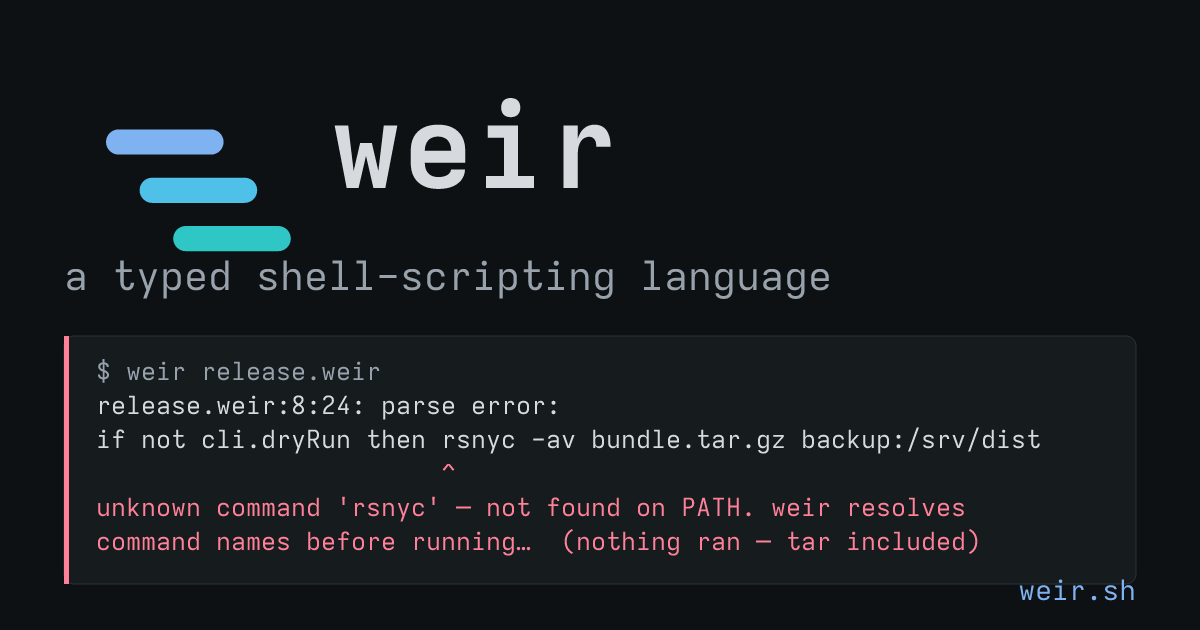
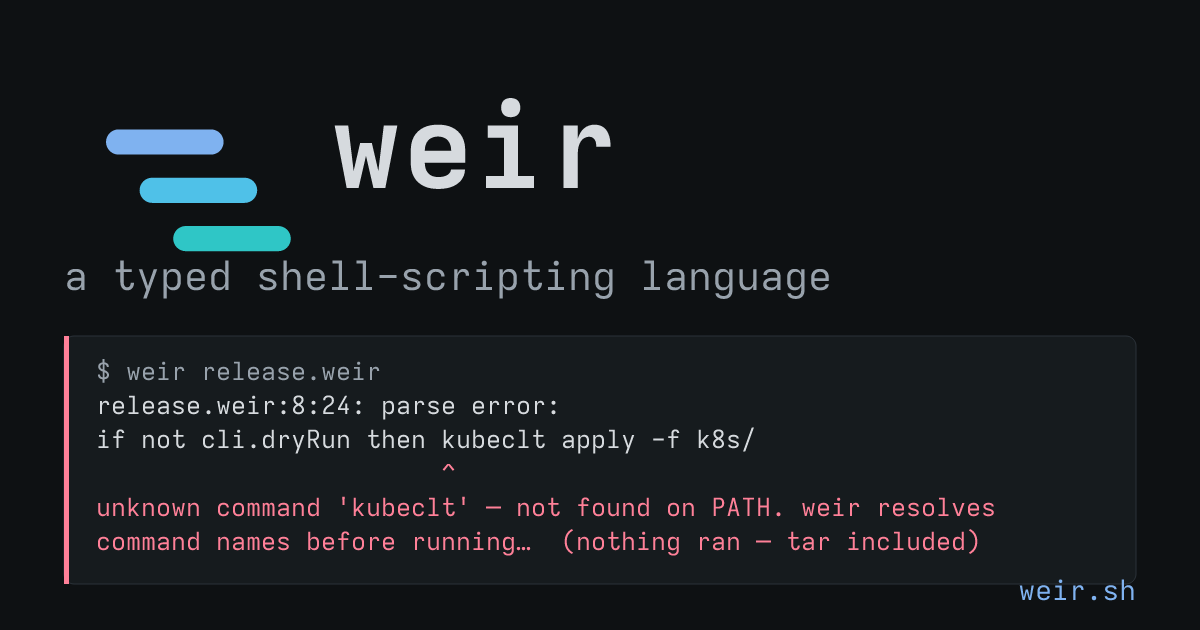
ci,ledger,site: the fold leads with the typed bundle — gleam-shaped sections put short prose beside each example, the typo beat compresses and spells kubeclt, mobile drops install below the demo [D:hero-2]

Changed region(s): [[0.37, 0.6635, 0.8633, 0.7238], [0.37, 0.7841, 0.8325, 0.8444], [0.2775, 0.7841, 0.3392, 0.8444]]

diff --git a/docs/DECISIONS.md b/docs/DECISIONS.md
@@ -383,3 +383,4 @@ the old key, never an edit-in-place.
 | og-card | 2026-09-05 | THE FOLD SHOWS THE LANGUAGE, AND LINKS UNFURL — the two attractiveness gaps worth closing on a substance-first page (user-triggered; the assessment that ruled OUT decoration stands in the hero's register: animations/gradients/mascots would dilute the verified-claims voice). (1) The social card: Base.astro had favicons but NO og/twitter tags — every share rendered a bare URL, and most first impressions happen in link previews. og.png is a COMMITTED render (site/og-card.mjs, not part of the build): the mark's three bars + the tagline + beat 1's GENUINE refusal — first lines verbatim, tail elided with an ellipsis, never a mock-up — drawn in html.dark's own tokens and the shipped Iosevka (woff2 decompressed via wawoff2, rendered via resvg; fontFiles NOT fontBuffers — the buffers path shaped punctuation wrong, raised periods, caught by eyeballing the render). Absolute image URL (scrapers do not resolve relative paths); og:title follows the page title. (2) The fold: for a language the product IS code, and the fold showed none — beat 1 (code + refusal + "Nothing ran") moves INTO a two-column hero beside the install lines (the hero-band full-bleed pattern, stacking on narrow screens; the refusal wraps instead of scrolling so the whole message is visible in the column). The standalone check-is-the-test section keeps its heading and explanation, now pointing at the refusal above and stating the page's own pinning discipline out loud. PINNING UNTOUCHED BY CONSTRUCTION: the hero-currency cell pins LIVE BINARY OUTPUT against strings in the e2e script, not page layout — quoted constants moved position, not bytes. | Base.astro og/twitter tags; index.astro hero-grid + [D:hero] comment; site/og-card.mjs + public/og.png; astro build verified (13 pages, tags + refusal present in dist) |
 | yaml-seq-doc | 2026-09-05 | `to yaml` WRITES ONE DOCUMENT; `to yaml stream` WRITES THE BUNDLE — the user's consistency argument overturned two of my standing defenses in one move ([D:to-jsonl]'s "YAML's plural is the stream" and [D:wire-unions-s]'s to-stream parse fence), and the receipt was `[1;2;3] |> to yaml` emitting three scalar DOCUMENTS nothing could read back: json renders [1,2,3] under the plain name and NDJSON under jsonl, so yaml's plain name owing a SEQUENCE document (`- 1` / `- 2`) was the grid the format always implied — the crossed pairing was OLDER than the stream word (`from yaml seq<T>` read a sequence document no writer could produce; the "each format's native plural" defense had hidden a roundtrip that NEVER held). NOW EVERY YAML FORM READS BACK THROUGH ITS OWN NAME: to yaml |> from yaml T / from yaml seq<T>; to yaml stream |> from yaml stream T — the same law json earned in [D:to-jsonl], completing the six-cell grid. THE SHAPE: ETo gains streamOf (the parse fence REVERSED into the form — the modifier word the read side already used; `to json/jsonl stream` fences toward jsonl at CHECK, not parse); `to yaml stream` demands a seq (jsonl's rule, one format over); eval SIMPLIFIED — the non-stream seq path just falls through to yamlRender's own VSeq arm (Block(renderSeq), the rendering nested seqs always had), the multi-doc join runs only under the flag; a pair-seq stays ONE mapping document (unchanged); a one-element stream has no separator. BREAKING, behaves-differently class: `xs |> to yaml` stream-writers (the kubectl bundle idiom, ONE release old) now write a sequence document — the migration is the word. A single-element seq wrap also moved ([{r}] |> to yaml is now `- r: …`) — one float pin unwrapped. Completion: `stream` offers after `to yaml `. | Ast ETo.streamOf + sexpr; Parser toExpr word (fence removed); Check ETo arm split + TETo.stream + json-stream fence; Eval yamlToImpl flag + fall-through; Complete to-yaml slot; Builtins to-yaml doc; Tests +1 grid pin, 4 migrations; e2e bundle write word; SKILL/GUIDE/adapters.md; 3 fresh 10k seeds |
 | site-style | 2026-09-06 | THE IDENTITY COMES OUT OF THE MARK — the gleam-inspired pass ([D:og-card]'s sequel), built on gleam.run's one real trick: COMMIT to the brand elements you have, everywhere. Weir's were sitting unused — the three-bar mark at 25px in the nav, the three hues nowhere else. Four moves, all inside the verified-claims register: (1) TERMINAL CHROME on every quoted output — a figcaption naming the PRODUCING COMMAND ($ weir release.weir, $ weir check --can tools/fuzz.weir) — provenance made visible, not decoration (the og-card's framing, brought home; outputs stay e2e-pinned bytes, chrome restyles freely); the hero's "Run it:" label retired into the caption. (2) The hues become TOKENS (--b1/--b2/--b3, favicon.svg's light/dark sets — the fill rules deduped onto them): the h1 underline is now the tri-hue gradient, every h2 site-wide carries a miniaturised three-bar stagger (identity by repetition, layered gradients, no SVG), links hover into the mark's cyan. (3) The mark LEADS the hero at 3× nav size. (4) The headline scales to display size (clamp) — the audit KILLED the planned sans-prose move: the body was ALREADY system-ui (the all-mono man-page feel I diagnosed from memory did not survive reading Base.astro; only code is mono, correctly), so item 4 re-scoped to scale. REJECTED, recorded: a mascot (the friendly-first voice undercuts don't-trust-it-check-it), animated gradients, glassmorphism — theme, not identity. | Base.astro tokens + .bN fills + h2::before triplet + main-a hover; index.astro mark-lg + h1 clamp/gradient + 4 .term figures; astro build verified (chrome captions, compiled rules probed post-minify) |
+| hero-2 | 2026-09-06 | THE FOLD LEADS WITH THE TYPED CROWN JEWEL — the user's two-part correction of [D:hero]/[D:og-card]: the typo beat UNDERSOLD the typed nature (PATH resolution is one consequence of the checker, not the pitch), and the page had grown CRAMPED against gleam.run's register. (1) The hero demo is now the kubernetes bundle — a tagged union over a yaml stream with an [<Other>] case, HAPPY output ($ weir deploy.weir → rolling out 3 replicas / exposing :80 / skipped: CronJob) — the composition [D:wire-unions] built, shown to exactly the audience it courts; e2e-pinned like every quote. (2) GLEAM-SHAPED SECTIONS: short prose BESIDE its example (desktop grid, minmax 24rem | 1fr; stacked mobile), copy cut to ≤3 sentences per beat — the alternatives section compressed to one paragraph, provenance to two (three strongest proofs inline, the rest behind the ledger link), the not-a-mock-up line demoted to fine print under beat 1. (3) The typo beat survives AS a section with the kubeclt swap — chosen over rsnyc/asw/terrafrom because the constraints bind: the FIRST command must exist on every runner and leave a file-observable absence (tar, the never-ran pin), the typo must be the COMMAND HEAD (resolution is the feature; hg-for-gh would resolve where mercurial exists), and kubeclt is the typo its audience personally makes. Same caret column by luck; the og-card requotes it and regenerated. (4) Mobile: install lines drop BELOW the demo (grid areas — nobody pipes curl into sh on a phone). | index.astro rewritten (hero bundle + 3 .feature sections + compressed copy); e2e hero cell: kubeclt swap + the hero happy-run pin (app.yaml fixture, output equality); og-card.mjs + og.png; [D:hero] comment forwarded |
